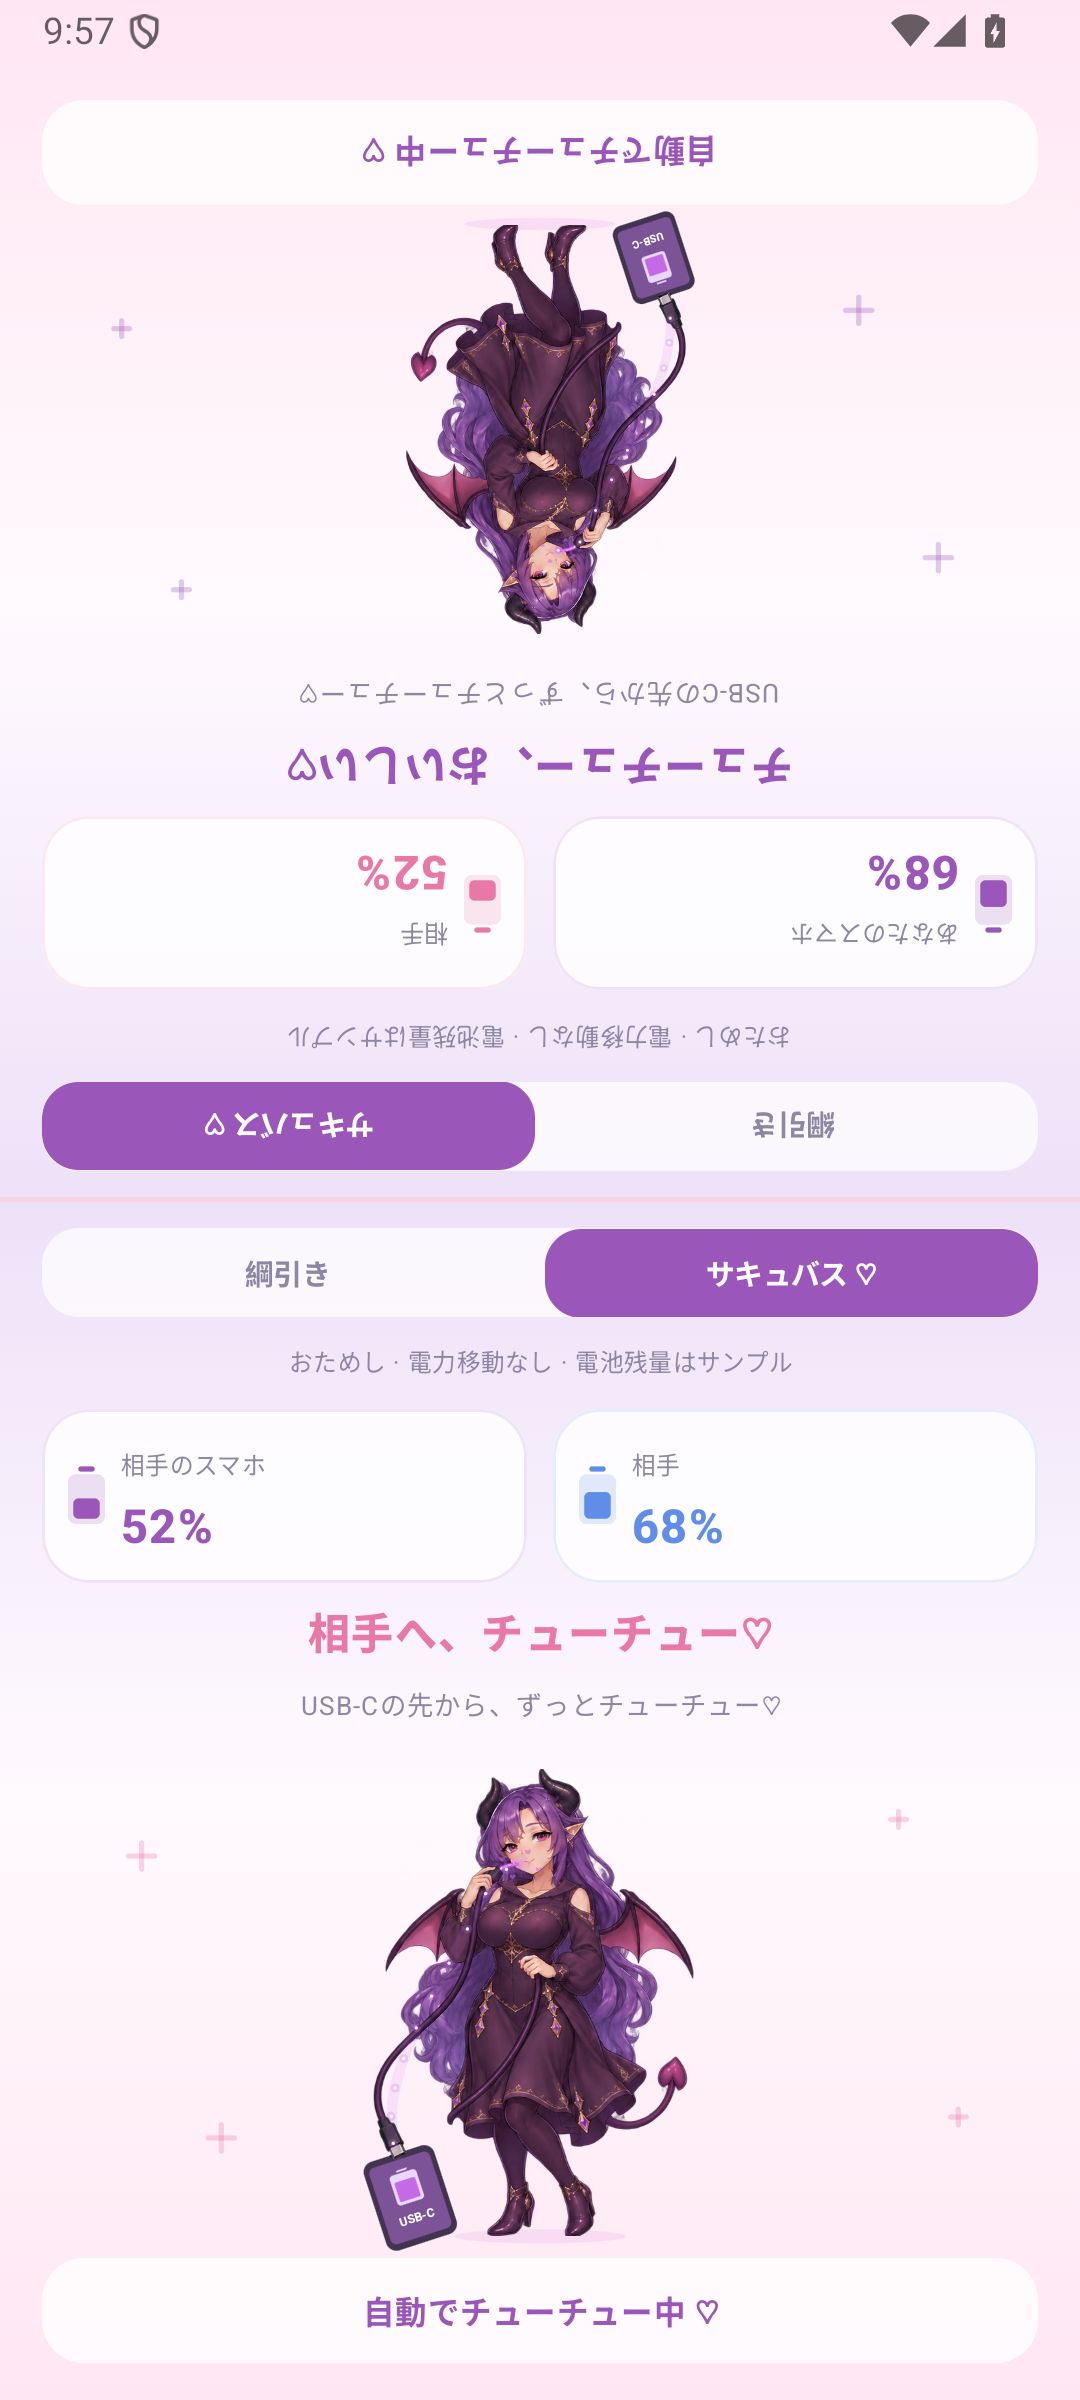
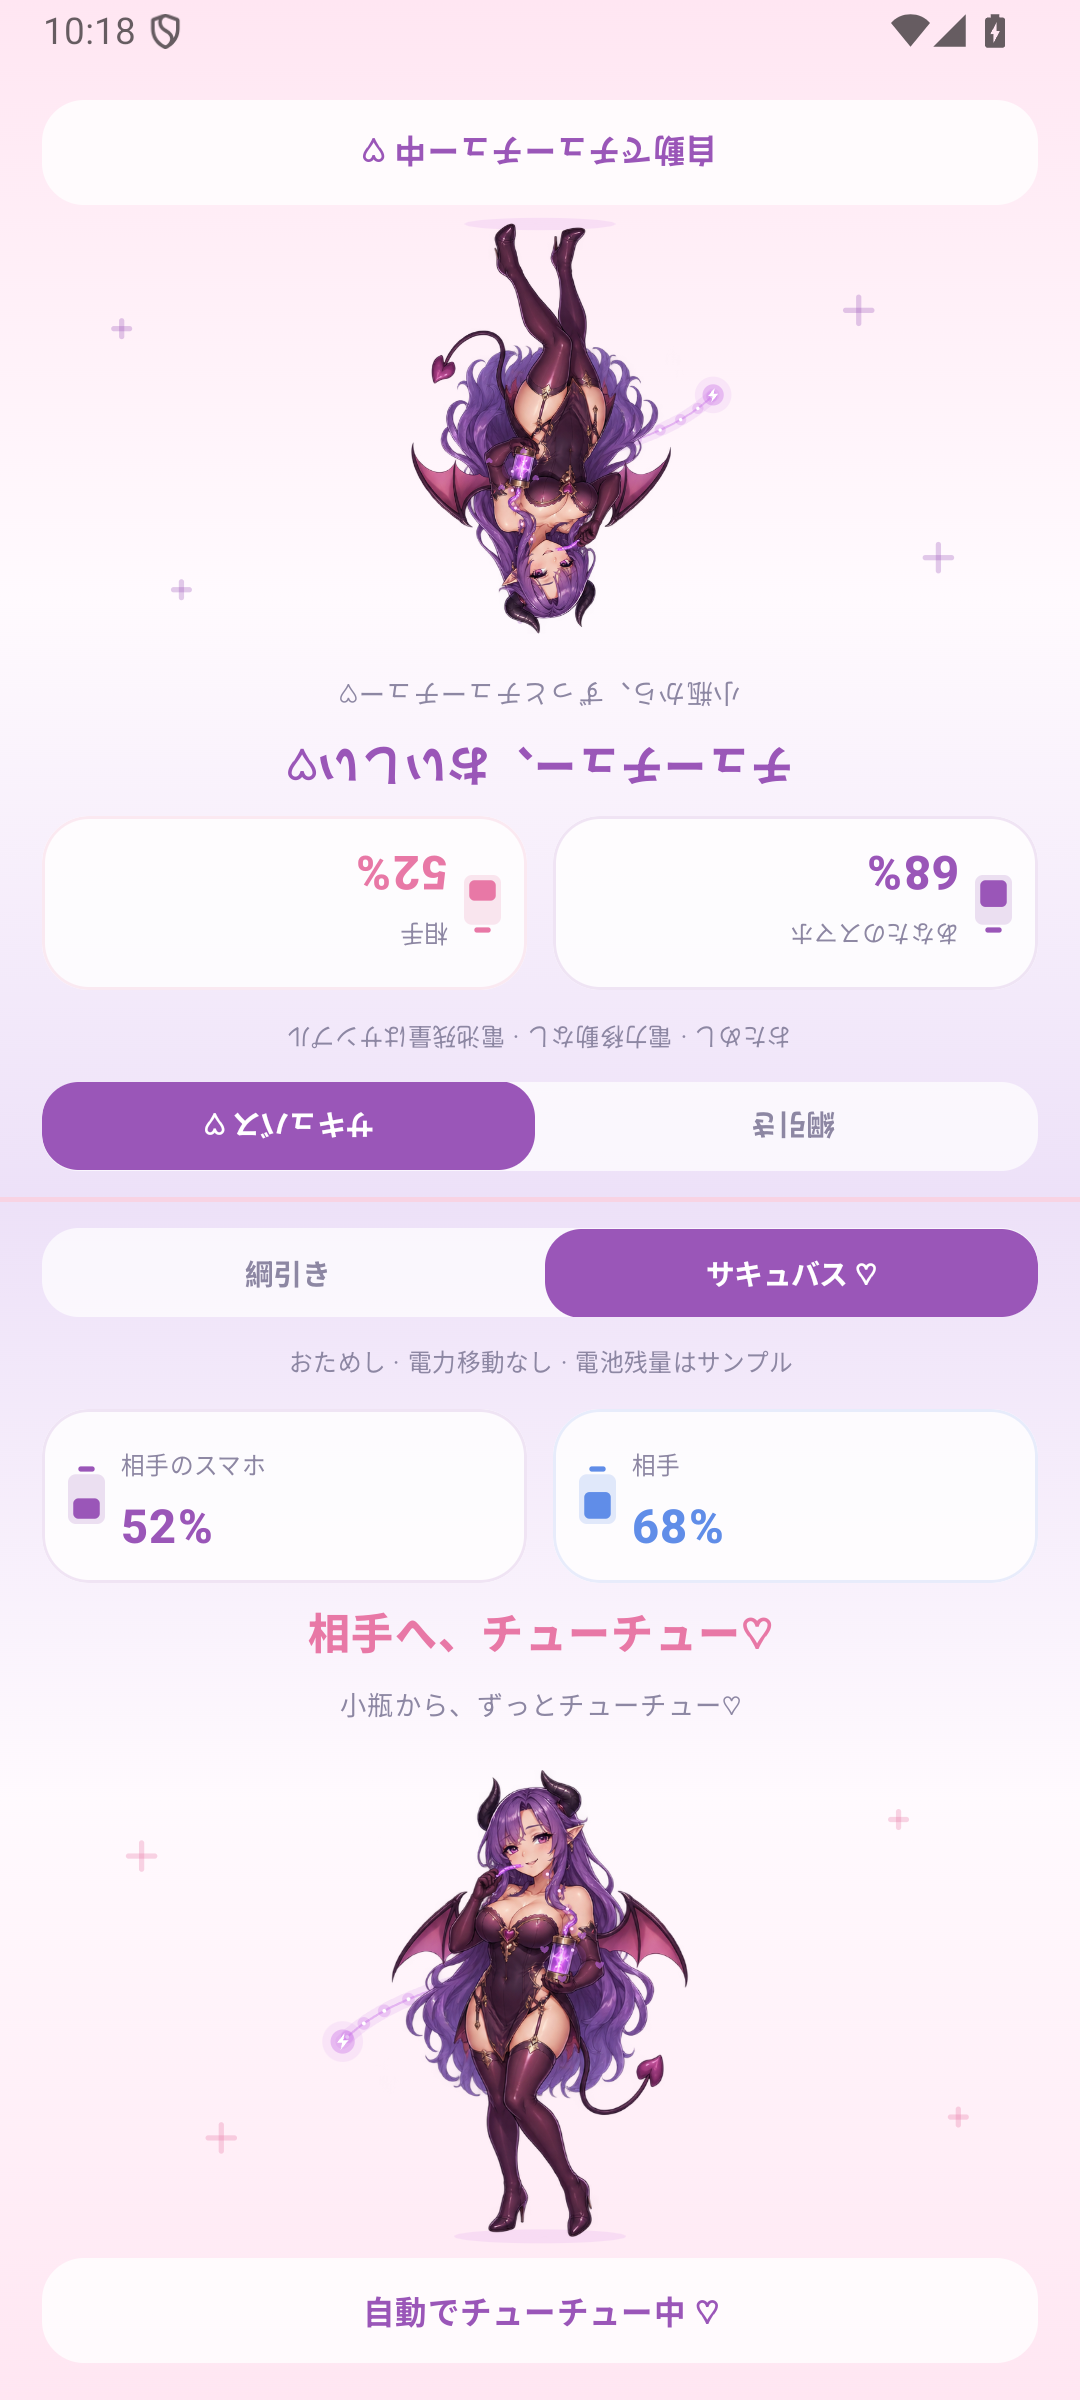
Restore approved succubus reference and bottle animation for v0.7

diff --git a/app/src/main/java/com/kenkawamoto/powerstruggle/SuccubusAnimation.kt b/app/src/main/java/com/kenkawamoto/powerstruggle/SuccubusAnimation.kt
@@ -14,7 +14,6 @@ import androidx.compose.runtime.setValue
 import androidx.compose.runtime.withFrameNanos
 import androidx.compose.ui.Modifier
 import androidx.compose.ui.geometry.Offset
-import androidx.compose.ui.geometry.CornerRadius
 import androidx.compose.ui.geometry.Size
 import androidx.compose.ui.graphics.Color
 import androidx.compose.ui.graphics.Path
@@ -42,40 +41,37 @@ private val Magic = Color(0xFFC56AE6)
 
 /** Adult character poses; original transparent artwork remains unchanged on disk. */
 private class SuccubusSprites(resources: Resources) {
-    class Frame(val bitmap: Bitmap, val feet: Offset, val cableTail: Offset, val usbTip: Offset, val upperRow: Boolean) {
+    class Frame(val bitmap: Bitmap, val feet: Offset, val battery: Offset, val mouth: Offset) {
         val vertices = FloatArray((SIP_COLUMNS + 1) * (SIP_ROWS + 1) * 2)
     }
     val paint = Paint(Paint.ANTI_ALIAS_FLAG or Paint.FILTER_BITMAP_FLAG)
-    val labelPaint = Paint(Paint.ANTI_ALIAS_FLAG).apply {
-        color = android.graphics.Color.WHITE
-        textSize = 19f
-        textAlign = Paint.Align.CENTER
-        typeface = android.graphics.Typeface.DEFAULT_BOLD
-    }
     val frames: List<Frame>
 
     init {
-        val atlas = checkNotNull(BitmapFactory.decodeResource(resources, R.drawable.succubus_usb_sip_atlas_v2))
+        val atlas = checkNotNull(BitmapFactory.decodeResource(resources, R.drawable.succubus_sip_atlas))
         val sx = atlas.width / 1143f
         val sy = atlas.height / 1376f
         val anchors = listOf(
-            floatArrayOf(339f, 687f, 128f, 568f, 310f, 140f),
-            floatArrayOf(282f, 687f, 71f, 568f, 253f, 140f),
-            floatArrayOf(339f, 683f, 128f, 563f, 310f, 135f),
-            floatArrayOf(282f, 683f, 71f, 563f, 253f, 135f),
+            floatArrayOf(333f, 683f, 380f, 275f, 329f, 138f),
+            floatArrayOf(270f, 683f, 342f, 275f, 289f, 138f),
+            floatArrayOf(335f, 685f, 375f, 273f, 329f, 135f),
+            floatArrayOf(272f, 686f, 340f, 277f, 292f, 140f),
         )
         frames = List(4) { i ->
-            val left = if (i % 2 == 0) 0 else 571
-            val rightEdge = if (i % 2 != 0) 1143 else 571
+            // The raised wing in the lower-left pose extends past the nominal cell edge.
+            // Give it the full gutter and keep its tip out of the lower-right pose.
+            val left = if (i % 2 == 0) 0 else if (i == 3) 600 else 571
+            val rightEdge = if (i % 2 != 0) 1143 else if (i == 2) 600 else 571
             val x = (left * sx).toInt()
             val right = (rightEdge * sx).toInt()
-            // The generated row boundary has two pixels of adjacent horn/shoe tips.
-            // Register clean source regions rather than rendering those stray fragments.
-            val y = if (i < 2) 0 else (692 * sy).toInt()
-            val bottom = if (i < 2) (687 * sy).toInt() else atlas.height
+            // The lower horns start on row 687; put the boundary in the transparent gutter.
+            val y = if (i < 2) 0 else (686 * sy).toInt()
+            val bottom = if (i < 2) (686 * sy).toInt() else atlas.height
             val a = anchors[i]
+            val shiftX = if (i == 3) 29f else 0f
             Frame(Bitmap.createBitmap(atlas, x, y, right - x, bottom - y),
-                Offset(a[0] * sx, a[1] * sy), Offset(a[2] * sx, a[3] * sy), Offset(a[4] * sx, a[5] * sy), i < 2)
+                Offset((a[0] - shiftX) * sx, a[1] * sy),
+                Offset((a[2] - shiftX) * sx, a[3] * sy), Offset((a[4] - shiftX) * sx, a[5] * sy))
         }
     }
 }
@@ -89,7 +85,7 @@ internal fun SuccubusArena(energized: Boolean, energyToPlayer: Boolean, modifier
     var frameTime by remember { mutableLongStateOf(started) }
     LaunchedEffect(Unit) { while (true) withFrameNanos { frameTime = it } }
     Canvas(modifier.semantics {
-        contentDescription = "成人のサキュバスがスマホにつながったUSB-Cケーブルの先から電力をすすっている。髪と翼が揺れる"
+        contentDescription = "成人のサキュバスがストローで電力をチューチュー吸う。まばたきし、髪と翼が揺れる"
     }) {
         val t = (frameTime - started).coerceAtLeast(0L) / 1_000_000_000f
         // Two small sips, an eyes-closed sip, a wink, then a relaxed pause. No input needed.
@@ -113,22 +109,27 @@ internal fun SuccubusArena(energized: Boolean, energyToPlayer: Boolean, modifier
             scale(scale, scale, pivot = Offset.Zero)
         }) {
             drawOval(Magic.copy(alpha = 0.12f), Offset(245f, 775f), Size(270f, 22f))
-            val tail = origin + pose.deform(frame.cableTail) * characterScale
-            val tip = origin + pose.deform(frame.usbTip) * characterScale
-            // The phone's port follows the free USB-C plug already drawn in each pose.
-            drawUsbPhone(tail, sprites.labelPaint)
+            val battery = origin + pose.deform(frame.battery) * characterScale
+            val mouth = origin + pose.deform(frame.mouth) * characterScale
+            val source = Offset(70f, 480f)
+            if (energized) drawSiphon(source, battery, t, energyToPlayer)
             drawSipCharacter(frame, pose, origin, characterScale, sprites.paint)
             if (energized) {
-                val c1 = origin + pose.deform(frame.cableTail + Offset(-35f, -115f)) * characterScale
-                val c2 = origin + pose.deform(frame.usbTip + Offset(-110f, 175f)) * characterScale
-                val housing = origin + pose.deform(frame.usbTip + Offset(-37f, 13f)) * characterScale
-                drawUsbEnergy(tail, c1, c2, housing, tip, t, energyToPlayer)
+                // Particles travel along the prop's straw, without obscuring the face.
+                val bend = Offset(battery.x + 9f, mouth.y + 58f)
+                repeat(5) { i ->
+                    val progress = (t * 0.72f + i / 5f) % 1f
+                    val u = if (energyToPlayer) progress else 1f - progress
+                    val p = battery * ((1f - u) * (1f - u)) + bend * (2f * (1f - u) * u) + mouth * (u * u)
+                    drawCircle(Magic.copy(alpha = 0.23f), 8f, p)
+                    drawCircle(Color(0xFFFFE4FF), 2.6f, p)
+                }
                 val pulse = (1f + sin(t * 6.5f)) / 2f
-                drawCircle(Magic.copy(alpha = 0.18f), 13f + pulse * 8f, tip)
+                drawCircle(Magic.copy(alpha = 0.18f), 18f + pulse * 9f, battery)
                 repeat(4) { i ->
                     val angle = t * 0.8f + i * PI.toFloat() / 2
-                    val p = tip + Offset(cos(angle) * 31f, sin(angle) * 21f)
-                    drawMagicHeart(p, 3.5f + pulse * 1.5f, Magic.copy(alpha = 0.55f))
+                    val p = battery + Offset(cos(angle) * 46f, sin(angle) * 36f)
+                    drawMagicHeart(p, 5f + pulse * 2f, Magic.copy(alpha = 0.6f))
                 }
             }
         }
@@ -168,49 +169,31 @@ private fun DrawScope.drawSipCharacter(frame: SuccubusSprites.Frame, pose: SipPo
         val native = canvas.nativeCanvas
         native.withTranslation(origin.x, origin.y) {
             scale(scale, scale)
-            if (frame.upperRow) {
-                // A faint tip from the next row lies between the soles, outside this pose.
-                // Clip only that empty gap, retaining the boots' complete lower outlines.
-                clipOutRect(frame.feet.x - 12f, frame.feet.y - 7f,
-                    frame.feet.x + 12f, frame.bitmap.height + 8f)
-            }
             drawBitmapMesh(frame.bitmap, SIP_COLUMNS, SIP_ROWS, frame.vertices, 0, null, 0, paint)
         }
     }
 }
 
-private fun DrawScope.drawUsbPhone(port: Offset, labelPaint: Paint) {
-    withTransform({ rotate(-18f, pivot = port) }) {
-        val left = port.x - 58f
-        val top = port.y - 2f
-        drawRoundRect(Color(0xFF42334F), Offset(left, top), Size(116f, 146f), CornerRadius(17f))
-        drawRoundRect(Color(0xFF7B5396), Offset(left + 8f, top + 10f), Size(100f, 126f), CornerRadius(10f))
-        drawRoundRect(Color(0xFFEAD7FF), Offset(port.x - 22f, top + 31f), Size(44f, 49f), CornerRadius(6f))
-        drawRoundRect(Magic, Offset(port.x - 17f, top + 43f), Size(34f, 32f), CornerRadius(3f))
-        drawLine(Color(0xFFEAD7FF), Offset(port.x - 7f, top + 27f), Offset(port.x + 7f, top + 27f), 3f, StrokeCap.Round)
-        drawIntoCanvas { it.nativeCanvas.drawText("USB-C", port.x, top + 112f, labelPaint) }
-        // The generated connector's silver tip meets this port; there is no added cable join.
-        drawRoundRect(Color(0xFF20172B), Offset(port.x - 10f, top - 1f), Size(20f, 5f), CornerRadius(2f))
-    }
-}
-
-private fun DrawScope.drawUsbEnergy(source: Offset, c1: Offset, c2: Offset, housing: Offset, tip: Offset, t: Float, inward: Boolean) {
-    val path = Path().apply {
-        moveTo(source.x, source.y); cubicTo(c1.x, c1.y, c2.x, c2.y, housing.x, housing.y)
-        lineTo(tip.x, tip.y)
-    }
-    drawPath(path, Magic.copy(alpha = 0.12f), style = Stroke(17f, cap = StrokeCap.Round))
-    repeat(10) { i ->
-        val progress = (t * 0.42f + i / 10f) % 1f
+private fun DrawScope.drawSiphon(source: Offset, battery: Offset, t: Float, inward: Boolean) {
+    val bend = Offset(source.x + 85f, source.y - 90f)
+    val path = Path().apply { moveTo(source.x, source.y); quadraticTo(bend.x, bend.y, battery.x, battery.y) }
+    drawPath(path, Magic.copy(alpha = 0.13f), style = Stroke(23f, cap = StrokeCap.Round))
+    drawPath(path, Magic.copy(alpha = 0.38f), style = Stroke(3.5f, cap = StrokeCap.Round))
+    repeat(8) { i ->
+        val progress = (t * 0.45f + i / 8f) % 1f
         val u = if (inward) progress else 1f - progress
-        val p = if (u > 0.9f) housing + (tip - housing) * ((u - 0.9f) / 0.1f) else {
-            val along = u / 0.9f
-            val v = 1f - along
-            source * (v * v * v) + c1 * (3f * v * v * along) + c2 * (3f * v * along * along) + housing * (along * along * along)
-        }
-        drawCircle(Magic.copy(alpha = 0.24f), 7f, p)
-        drawCircle(Color.White, 2.6f, p)
+        val p = source * ((1f - u) * (1f - u)) + bend * (2f * (1f - u) * u) + battery * (u * u)
+        drawCircle(Magic.copy(alpha = 0.24f), 10f, p)
+        drawCircle(Color.White, 3f, p)
     }
+    drawCircle(Magic.copy(alpha = 0.1f), 36f + sin(t * 4f) * 4f, source)
+    drawCircle(Magic.copy(alpha = 0.35f), 19f, source)
+    val bolt = Path().apply {
+        moveTo(source.x + 3f, source.y - 13f); lineTo(source.x - 9f, source.y + 2f)
+        lineTo(source.x - 1f, source.y + 2f); lineTo(source.x - 3f, source.y + 13f)
+        lineTo(source.x + 9f, source.y - 2f); lineTo(source.x + 1f, source.y - 2f); close()
+    }
+    drawPath(bolt, Color.White)
 }
 
 private fun DrawScope.drawMagicHeart(center: Offset, radius: Float, color: Color) {

diff --git a/app/src/main/java/com/kenkawamoto/powerstruggle/MainActivity.kt b/app/src/main/java/com/kenkawamoto/powerstruggle/MainActivity.kt
@@ -276,7 +276,7 @@ private fun PlayerView(
             if (!short) {
                 Text(if (succubus) "サキュバスの充電タイム" else "POWER STRUGGLE", color = Ink, fontWeight = FontWeight.Black,
                     fontSize = if (succubus) 23.sp else 25.sp, letterSpacing = if (succubus) 0.sp else 2.sp)
-                Text(if (succubus) "USB-Cから、でんりょくいただき♡" else "ふたりで、でんりょく綱引き。", color = Muted, fontSize = 13.sp,
+                Text(if (succubus) "でんりょく、ひとくちいただき♡" else "ふたりで、でんりょく綱引き。", color = Muted, fontSize = 13.sp,
                     modifier = Modifier.padding(top = 4.dp, bottom = 18.dp))
             }
             VisualModeSelector(visualMode, onVisualMode, short)
@@ -295,8 +295,8 @@ private fun PlayerView(
                 fontSize = if (short) 16.sp else 21.sp, textAlign = TextAlign.Center)
             Text(
                 when {
-                    succubus && demo -> "USB-Cの先から、ずっとチューチュー♡"
-                    succubus && !connected -> "USB-Cからすするアニメーションをおためし"
+                    succubus && demo -> "小瓶から、ずっとチューチュー♡"
+                    succubus && !connected -> "小瓶からすするアニメーションをおためし"
                     demo -> "青い子とピンクの子、どっちが勝つかな？"
                     !connected -> "USB-Cで2台のスマホをつないでね"
                     side.currentMa != null -> "実際のバッテリー電流  ${side.currentMa.signed()} mA"

diff --git a/README.md b/README.md
@@ -20,7 +20,7 @@ percentage and charging status in connected play still come from the device's ba
   mirrors the scene as needed so its own girl matches the local tug meter.
 - **接続の詳細** contains Shizuku setup instructions and connection diagnostics.
 - Choose **サキュバス ♡** for an alternate viewing mode: an adult fantasy character
-  continuously sips glowing electricity from a USB-C connector, with four expression poses,
+  continuously sips glowing electricity from a small bottle through a straw, with four expression poses,
   breathing and animated hair/wings. No tapping is needed. **チューチューを眺める** starts
   a clearly labeled local preview; connected play shows the actual direction of power flow.
   This visual mode does not send game taps or request automatic power swaps. Switch back to
@@ -33,10 +33,12 @@ atlases are `tug_emotes_atlas.png` and `tug_pink_pull_atlas.png` in
 `app/src/main/res/drawable-nodpi/`. Their source rectangles, planted-foot pivots and hand grips
 are registered in `TugAnimation.kt`; the generated PNGs are preserved intact.
 See [`the animation prompts`](docs/art/tug-animation-prompts.md) for the artwork instructions.
-The alternate-mode artwork is `succubus_usb_sip_atlas_v2.png`. The purple dress has a relaxed
-open collar and small shoulder openings. A thick charging cable connects
-the animated USB-C tip near her lips to a phone with a visible USB port. Its generation
-instructions are in [`the current costume edit prompt`](docs/art/succubus-usb-sip-v2.prompt.md).
+The alternate-mode artwork is `succubus_sip_atlas.png`: the user's approved four-pose
+reference, with its purple corset outfit, long gloves and thigh-high boots, copied intact.
+The small bottle and straw remain in the illustration. Facial expression changes combine
+with continuous sipping, breathing, hair and wing movement. Purple energy particles follow
+the charging direction. See [`the reference adoption record`](docs/art/succubus-reference-v0.7.md)
+and [`the original generation prompt`](docs/art/succubus-sip.prompt.md).
 
 <p align="center">
   <img src="docs/chibi-waiting.png" width="230" alt="Chibi girls on the connection screen">

diff --git a/docs/ui-validation.md b/docs/ui-validation.md
@@ -1,5 +1,27 @@
 # Chibi UI validation — 2026-10-05
 
+## Approved reference and bottle animation — v0.7
+
+The user-provided four-pose character atlas is now the runtime asset, copied byte for byte
[1 lines of base64/hex data omitted]
+The 1143 × 1376 PNG has alpha ranging from 0 to 255. Its corset outfit, long gloves,
+thigh-high boots, bottle and straw are preserved. The bottle/straw renderer registers the
+feet and prop positions for all expressions, adds continuous mesh movement, and animates
+energy in the existing charging direction. Screen labels now describe the bottle.
+The previous USB art is archived at `docs/art/succubus-usb-sip-v0.6.png`.
+
+`assembleDebug lintDebug --max-workers=2 --no-daemon` passed with no errors and the same
+three SDK/orientation warnings. API 36 host-GPU checks passed for hands-free playback,
+labeled simulation, stable sample battery levels, tug controls after switching, mode
+persistence across restart and Android Back, live battery restoration after leaving the
+preview, opposite-flow labeling, both opposing halves, and no fatal app exceptions.
+The nine-second recording (720 × 1600, 515 frames in 8.893 seconds) and the waiting/split
+screenshots were visually inspected for expression changes and intact character outlines.
+Transient emulator UI hierarchy failures were retried by the capture helper.
+
+Deliverables: `output/PowerStruggle-reference-v0.7-debug.apk` and
+`output/PowerStruggle-reference-v0.7.mp4`. Actual two-device USB transfer remains untested.
+
 ## Relaxed costume — v0.6
 
 The adult character's purple dress now has an open collar showing the neck/collarbones and

diff --git a/docs/art/succubus-reference-v0.7.md b/docs/art/succubus-reference-v0.7.md
@@ -1,0 +1,18 @@
+# Approved reference adoption — v0.7
+
+The user selected the original corset, long-glove and thigh-high-boot character reference
+and approved using that image unchanged, including its small bottle and straw.
+
+Source: user attachment `codex-clipboard-86bc6544-3975-43cd-8ab2-5228443916b1.png`.
+Runtime: `app/src/main/res/drawable-nodpi/succubus_sip_atlas.png`.
[1 lines of base64/hex data omitted]
+
+The source PNG was copied byte for byte; no new image generation or bitmap editing was used
+for this version. The earlier generated design and prompt remain in
+`docs/art/succubus-sip-v0.4.png` and `docs/art/succubus-sip.prompt.md`.
+The v0.6 USB artwork is archived at `docs/art/succubus-usb-sip-v0.6.png`.
+
+The bottle/straw renderer registers the four poses by their feet and prop positions. It
+combines expression changes with continuous mesh animation of sipping, breathing, hair
+and wings. Particle direction follows the existing battery flow. Labels describe the
+bottle instead of a USB connector; power control and tug gameplay are unchanged.
